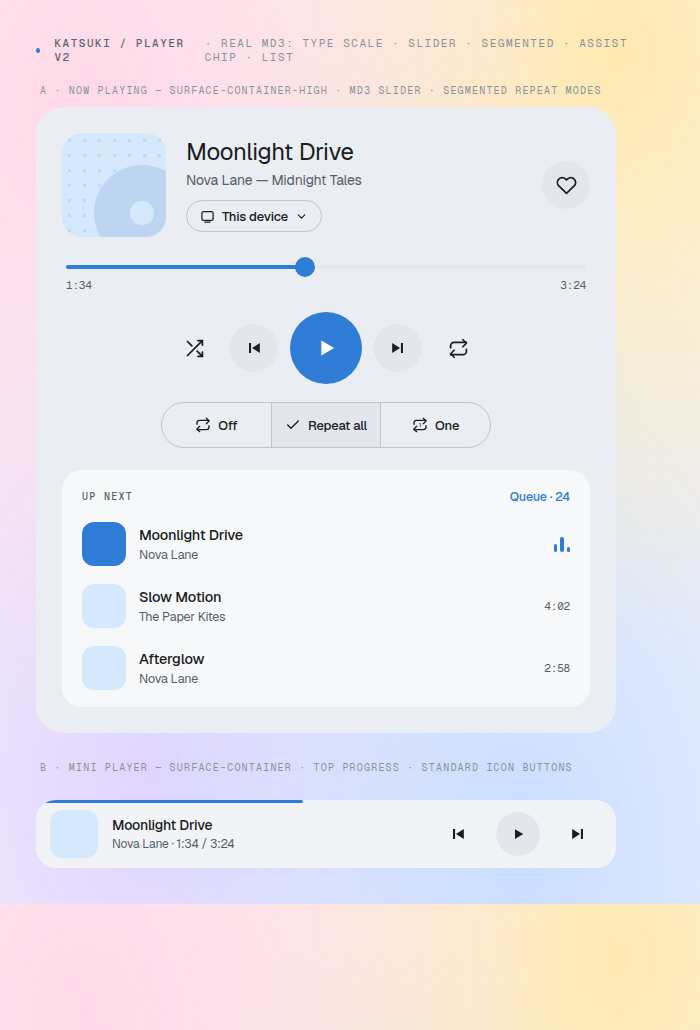
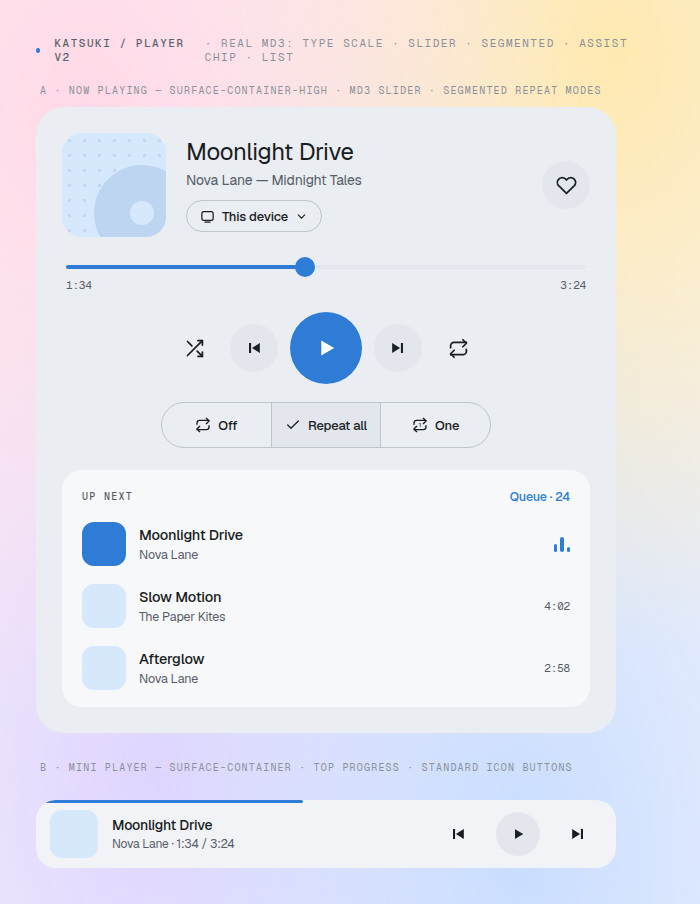
README: fix RabbitGram credit link; trim artifact band from bottom of mockup renders

diff --git a/README.md b/README.md
@@ -100,7 +100,7 @@ cd katsuki-desktop
 
 - **[Telegram Desktop](https://github.com/telegramdesktop/tdesktop)** — the codebase this all stands on. Thank you.
 - **[AyuGram](https://github.com/AyuGram/AyuGramDesktop)** & friends — proof that a fork can have a soul
-- **[RabbitGram](https://github.com/rabbitgram)** — the rounding inspiration
+- **[RabbitGram](https://github.com/rabbitgramdesktop/rabbitgramdesktop)** — the rounding inspiration
 - **[Geist](https://vercel.com/font)** by Vercel — the type system
 - **[Material Design 3](https://m3.material.io)** — the player's component vocabulary
 
